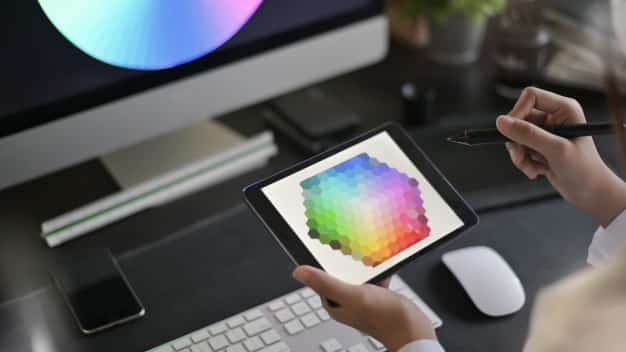
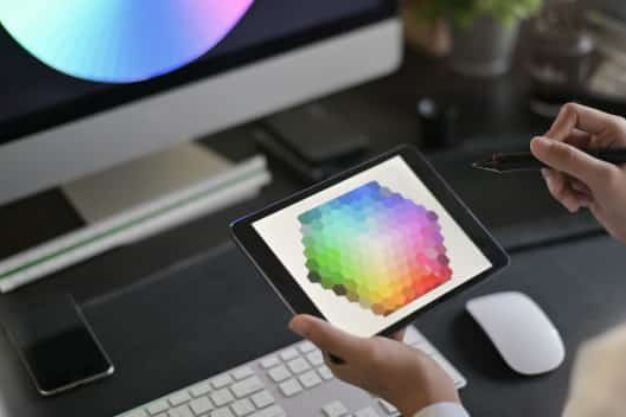
commit

diff --git a/index.html b/index.html
@@ -87,11 +87,11 @@
                     <h2 class="czym-sie-zajmujemy">Czym się zajmujemy</h2>
                     <ul class="image-list">
                         <li class="li-zajmujemy"><img src="images/image_1.jpeg" alt="osoba programuje" width="370"
-                                height="294"></li>
+                                height=auto></li>
                         <li class="li-zajmujemy"><img src="images/image_2.jpeg"
-                                alt="osoba pracuje nad aplikacją na telefon" width="370" height="294"></li>
+                                alt="osoba pracuje nad aplikacją na telefon" width="370" height=auto></li>
                         <li class="li-zajmujemy"><img src="images/image_3.jpeg" alt="osoba wybiera kolor na tablecie"
-                                width="370" height="294"></li>
+                                width="370" height=auto></li>
                     </ul>
                 </div>
             </section>
@@ -100,22 +100,22 @@
                     <h2 class="nasz-zespol">Nasz zespół</h2>
                     <ul class="person-list">
                         <li class="border"><img class="person-photo" src="images/person_1.jpeg" alt="John Doe"
-                                width="270" height="260">
+                                width="270" height=auto>
                             <h3 class="nasz-zespol_h3">John Doe</h3>
                             <p class="nasz-zespol_p">Product Designer</p>
                         </li>
                         <li class="border"><img class="person-photo" src="images/person_2.jpeg" alt="John Doe"
-                                width="270" height="260">
+                                width="270" height=auto>
                             <h3 class="nasz-zespol_h3">John Doe</h3>
                             <p class="nasz-zespol_p">Frontend Developer</p>
                         </li>
                         <li class="border"><img class="person-photo" src="images/person_3.jpeg" alt="John Doe"
-                                width="270" height="260">
+                                width="270" height=auto>
                             <h3 class="nasz-zespol_h3">John Doe</h3>
                             <p class="nasz-zespol_p">Marketing</p>
                         </li>
                         <li class="border"><img class="person-photo" src="images/person_4.jpeg" alt="John Doe"
-                                width="270" height="260">
+                                width="270" height=auto>
                             <h3 class="nasz-zespol_h3">John Doe</h3>
                             <p class="nasz-zespol_p">UI Designer</p>
                         </li>
